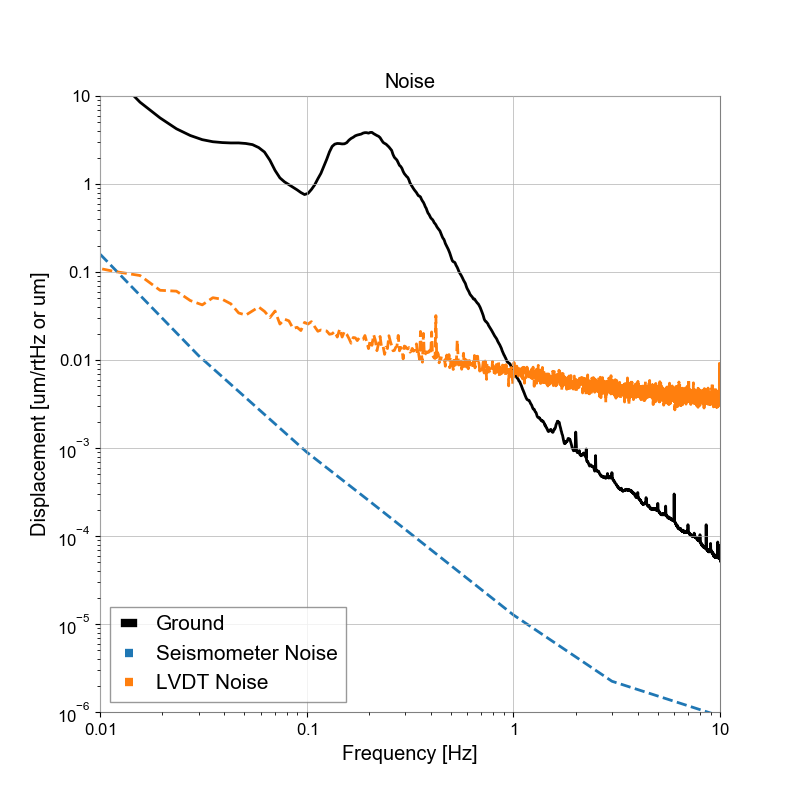
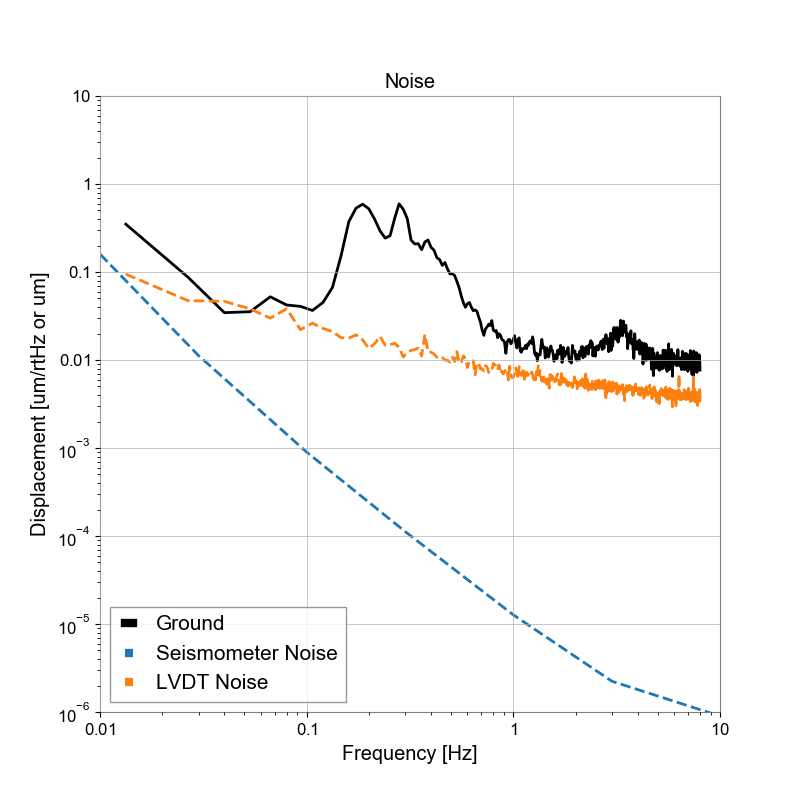
Update

diff --git a/simulation/etmx.py b/simulation/etmx.py
@@ -12,18 +12,27 @@ from gwpy.frequencyseries import FrequencySeries
 from gwpy.timeseries import TimeSeries
 
 from miyopy import seismodel
-from miyopy.utils.trillium import selfnoise as ntr120
+from miyopy.utils.trillium import _selfnoise as ntr120
+from miyopy.utils.trillium import Trillium 
 from miyopy.utils.lvdt import noise as nlvdt
 from miyopy.utils.susmodel import TypeA
 from miyopy.utils.pycontrol import tf
 
 
 nominal     = True
+nominal     = 'sc2_1'
+if nominal=='sc2_1':
+    sc = True
+    gif_noise = True
+else:
+    sc = False
+    gif_noise =False
+    
 use_oplev   = False
 use_arm     = True
 plot_req    = False
 plot_noctrl = False
-sc = False
+
 
 
 # Actual oltf
@@ -55,13 +64,32 @@ _freq = np.logspace(0,4,1000) # re-define
 # ------------------------------------------------------------
 # Seismic Noise
 # ------------------------------------------------------------
-if nominal:    
-    gnd_vel = seismodel.kagra_seis('H',99)
-    tm_oplev = None
-    freq = gnd_vel.frequencies.value
-    omega = 2.0*np.pi*freq
-    gnd  = gnd_vel/(2.0*np.pi*freq)
-    df = gnd.df.value    
+if nominal:
+    if nominal in ['sc2_1','sc2_0']:
+        gnd_gif = FrequencySeries.read('{0}_gif.hdf5'.format(nominal))
+        gnd_seis = FrequencySeries.read('{0}_diff.hdf5'.format(nominal))
+        gnd_seis = gnd_seis/(2.0*np.pi*gnd_seis.frequencies.value)
+        if False:
+            gnd_seis = gnd_seis.crop(0.1)
+            gnd_gif = gnd_gif.crop(0,0.1)
+            gnd_seis = gnd_seis.append(gnd_gif)
+        gnd = gnd_gif
+        df = gnd.df.value                    
+        gnd = gnd.crop(df)
+        freq = gnd.frequencies.value
+        omega = 2.0*np.pi*freq
+        if use_arm:
+            xarm = FrequencySeries.read('{0}_xarm.hdf5'.format(nominal))
+            xarm = xarm.crop(df)
+    else:
+        gnd_vel = seismodel.kagra_seis('H',99)
+        #print(1/gnd_vel.df)
+        #exit()
+        tm_oplev = None
+        freq = gnd_vel.frequencies.value
+        omega = 2.0*np.pi*freq
+        gnd  = gnd_vel/(2.0*np.pi*freq)
+        df = gnd.df.value    
 else:    
     start = 'Sep 03 2019 11:50:00 JST' # w/ SC 
     end   = 'Sep 03 2019 12:20:00 JST' # w/ SC
@@ -103,21 +131,26 @@ else:
         lam = 1064e-9 # m 
         xarm = xarm*3000.0/(c/lam)*1e6
         
-    #print data
+#print data
 # ------------------------------------------------------------    
 # Feedback Sensor Noise
 # ------------------------------------------------------------
 # LVDT
-nlvdt = nlvdt.interpolate(df).crop(df,16+df)
-
+freq_max = freq[-1]
+nlvdt = nlvdt.interpolate(df).crop(df,freq_max+1.5*df)
+nlvdt.override_unit(gnd.unit)
+omega_nlvdt = 2.0*np.pi*nlvdt.frequencies.value
 # Seismometer
-nseis = ntr120(trillium='120QA',psd='ASD',unit='disp')*1e6
+trillium = Trillium('120QA')
+nseis = trillium.selfnoise(trillium='120QA',psd='ASD',unit='m')*1e6
+#
+nfreq = FrequencySeries(2.2*np.pi*1e-3/omega,frequencies=freq,unit=gnd.unit)
 
 # ------------------------------------------------------------
 # Servo Filter
 # ------------------------------------------------------------
 # Read servo filter from .mat file. 
-prefix = '/Users/miyo/Dropbox/Git/SuspensionModel/model/typeA/'
+prefix = '/Users/miyo/Git/SuspensionModel/model/typeA/'
 matfile = prefix + 'servo/servoIPL.mat'
 #print matfile
 mat_dict = loadmat(matfile,struct_as_record=False)
@@ -177,24 +210,23 @@ H_gnd2tm_noctrl = tf(H_gnd2tm_noctrl,omega)*(1j*omega)**2
 #exit()
 ff_factor = 1.
 if sc:
-    #sc_factor = 1./5
-    sc_factor = 1./10
+    sc_factor = 1./20
 else:
     sc_factor = 1.
 H_gndsus2tm  = tf(H_gndsus2tm,omega)*(1j*omega)**2*ff_factor
 H_gndsens2tm = tf(H_gndsens2tm,omega)*sc_factor
-H_nlvdt2tm = tf(H_nlvdt2tm,omega)
+H_nlvdt2tm = tf(H_nlvdt2tm,omega_nlvdt)
 
 # ------------------------------------------------------------
 # Noisebudget of TM motion
 # ------------------------------------------------------------
 print('Plot Noisebudget of TM motion')
-total = np.sqrt( \
-        (gnd*(H_gndsus2tm + H_gndsens2tm))**2 \
-        )
-fig,ax = plt.subplots(1,1,figsize=(8,8))
+total = np.sqrt(
+    (gnd*H_gndsus2tm.abs())**2 + (gnd*H_gndsens2tm.abs())**2 + (nlvdt*H_nlvdt2tm.abs())**2 #+ nfreq**2
+    )
+fig,ax = plt.subplots(1,1,figsize=(6,6))
 ax.set_title('ETMX {0} Motion'.format(sensor_name))
-ax.loglog(gnd,label='Seismic Noise',color='black',linewidth=2,alpha=1,zorder=1)
+#ax.loglog(gnd,label='Seismic Noise',color='black',linewidth=2,alpha=1,zorder=1)
 #ax.loglog(gnd.rms(),color='black',linestyle='dashdot',linewidth=2,zorder=1)
 total.name='total'
 if sc:
@@ -202,18 +234,24 @@ if sc:
     #total.abs().write('total_wsc.hdf5')
 else:
     pass
-    #total.abs().write('total_wosc.hdf5')    
-ax.loglog(total.abs(),label='Sum',color='r',linewidth=3,alpha=0.8,zorder=1)
-ax.loglog(total.abs().rms(),color='r',linewidth=2,linestyle='dashdot',zorder=1)
-ax.loglog((gnd*H_gndsus2tm).abs(),'--',label='Seismic Noise (Suspension Contrib.)',linewidth=2)
-ax.loglog((gnd*H_gndsens2tm).abs(),'--',label='Seismic Noise (Sensor Contrib.)',linewidth=2)
+    #total.abs().write('total_wosc.hdf5')
+#ax.loglog((nlvdt).abs(),label='nlvdt',color='k',linewidth=3,alpha=0.8,zorder=1)
+if use_arm:
+    ax.loglog(xarm,label='Measurement',color='k',linewidth=3,zorder=1)    
+ax.loglog(total.abs(),label='Total',color='r',linewidth=3,alpha=0.8,zorder=10)
+#ax.loglog(total.abs().rms(),color='r',linewidth=2,linestyle='dashdot',zorder=1)
+#ax.loglog((gnd*H_gndsus2tm).abs(),'--',label='Seismic Noise (Suspension Contrib.)',linewidth=2)
+#ax.loglog((gnd*H_gndsens2tm).abs(),'--',label='Seismic Noise (Sensor Contrib.)',linewidth=2)
 ax.set_ylim(1e-5,2e1)
-ax.set_xlim(4e-2,1e1)
+ax.set_xlim(1e-2,1e1)
 #ax.loglog((nlvdt*H_nlvdt2tm).abs(),'--',label='Sensor Noise',linewidth=2)
+ax.loglog(nlvdt*H_nlvdt2tm.abs(),label='LVDT noise',linewidth=2,alpha=0.8,zorder=1)
+#ax.loglog(nfreq,label='Freq. noise',linewidth=2,alpha=0.8)
+ax.loglog(np.sqrt((gnd*H_gndsus2tm.abs())**2+(gnd*H_gndsens2tm.abs())**2).abs(),label='Seismic noise',linewidth=2,alpha=0.8,zorder=1)
+
 if use_oplev:
     ax.loglog(tm_oplev,label='TM oplev',color='m',linewidth=3,zorder=1)
-if use_arm and not nominal:
-    ax.loglog(xarm,label='xarm',color='m',linewidth=3,zorder=1)    
+#if use_arm and not nominal:
 if plot_noctrl:
     ax.loglog((gnd*H_gnd2tm_noctrl).abs(),label='No Control',color='gray',linewidth=2)
     ax.loglog((gnd*H_gnd2tm_noctrl).abs().rms(),color='gray',linewidth=2,linestyle='--')
@@ -241,7 +279,7 @@ gs = GridSpec(2, 1, height_ratios=[3, 1])
 ax2 = fig.add_subplot(gs[1])
 ax = fig.add_subplot(gs[0],sharex=ax2)
 ax.set_title('Ground to {0}'.format(sensor_name))
-ax.loglog(H_gnd2tm_noctrl.abs(),label='No Control',color='k',linewidth=2,linestyle='-')
+ax.loglog(H_gnd2tm_noctrl.abs(),label='No Control',color='k',linewidth=2,linestyle='-',zorder=10)
 ax.loglog((H_gndsens2tm+H_gndsus2tm).abs(),label='Total',color='r',linewidth=6)
 ax.loglog(H_gndsus2tm.abs(),label='Ps/(1+G) (Suspension Contrib.)',color='b',linewidth=2,linestyle='--')
 ax.loglog(H_gndsens2tm.abs(),label='G/(1+G) (Sensor Contrib.)',color='g',linewidth=2,linestyle='--')
